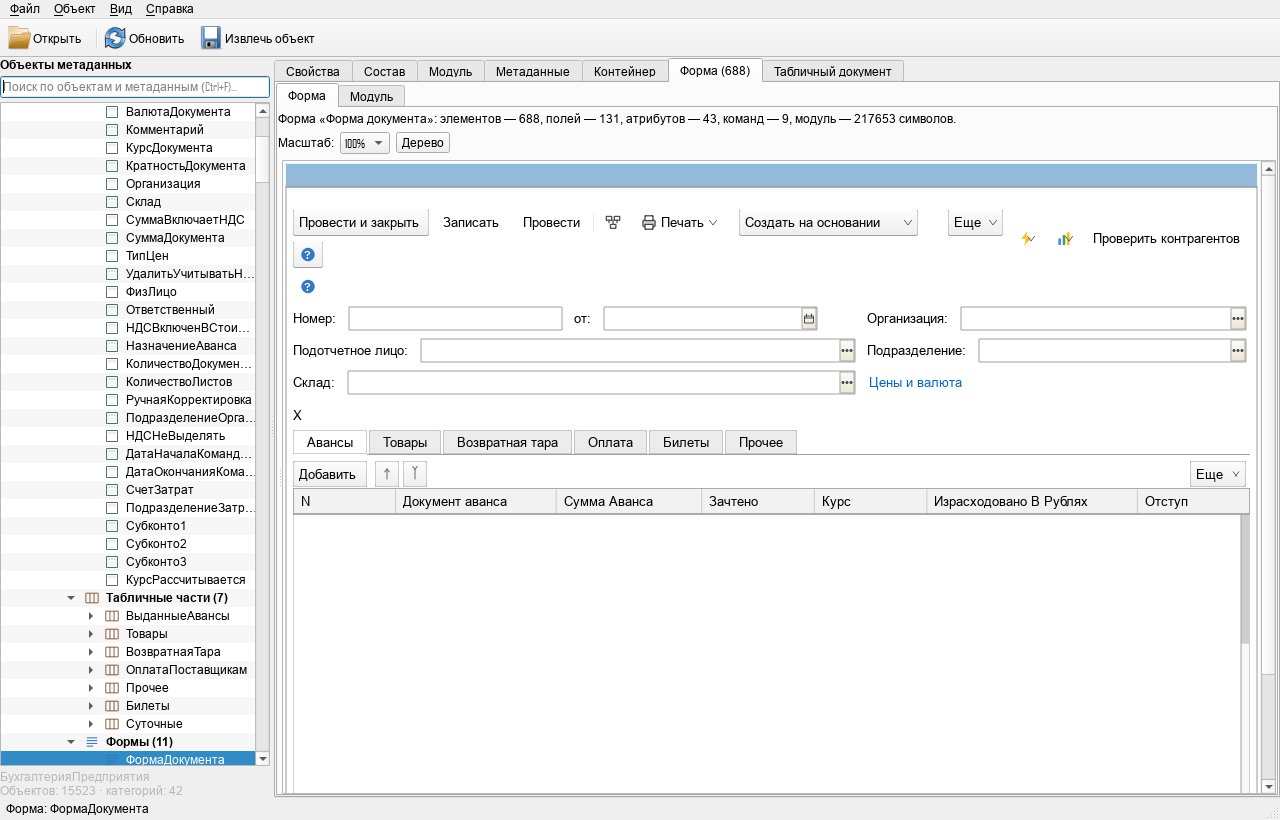
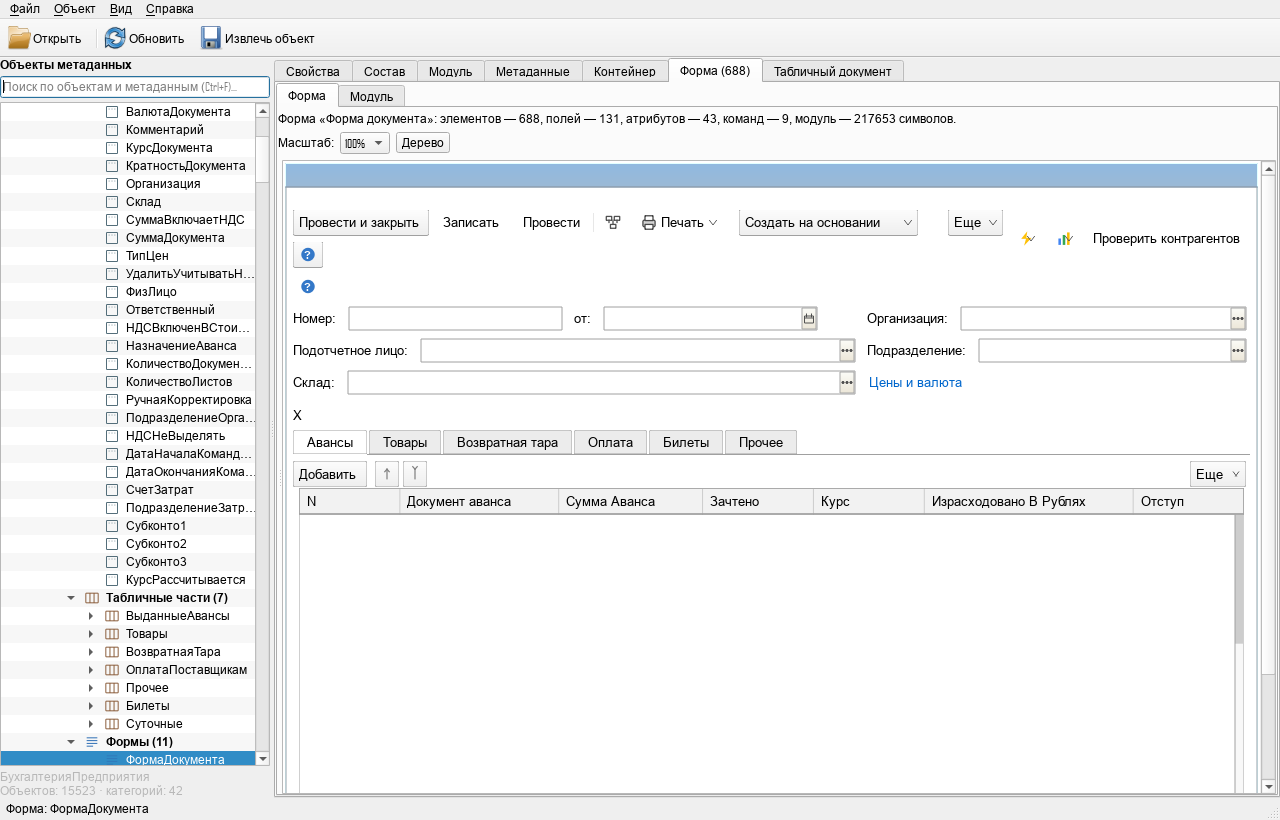
fix(forms): отступ таблицы и ширина «Создать»

diff --git a/src/gui/FormView.cpp b/src/gui/FormView.cpp
@@ -327,7 +327,7 @@ public:
             }
             if (table) {
                 const double chipsTop = table->rect.top();
-                const double chipsLeft = table->rect.left();
+                const double chipsLeft = std::max(0.0, table->rect.left() - 6.0);
                 const double chipHeight = 26.0;
                 const double chipGap = 4.0;
                 for (PreviewControl &control : *controls) {
@@ -435,7 +435,7 @@ private:
             if (icon != ButtonIcon::None)
                 width += 22.0;
             if (item.name == QStringLiteral("Создать"))
-                width += 15.0;
+                width += 35.0;
             return std::min(250.0, width);
         }
         case Type::Search:
@@ -460,7 +460,7 @@ private:
                 const QString title = item.synonym.isEmpty()
                     ? humanizeCommand(item.name) : item.synonym;
                 if (item.name == QStringLiteral("Создать2"))
-                    return 90.0;
+                    return 100.0;
                 if (item.name == QStringLiteral("Еще"))
                     return 55.0;
                 return std::max(64.0,
@@ -1284,7 +1284,8 @@ private:
             tableTop += 30.0;
             tableHeight = std::max(80.0, tableHeight - 30.0);
         }
-        control.rect = QRectF(rect.left(), tableTop, rect.width(),
+        control.rect = QRectF(rect.left() + 6.0, tableTop,
+                              std::max(1.0, rect.width() - 12.0),
                               std::min(std::max(0.0, rect.height() - (tableTop - rect.top())),
                                        tableHeight));
         QVector<int> widthUnits;

diff --git a/CHANGELOG.md b/CHANGELOG.md
@@ -110,6 +110,8 @@
 - Кнопки командной панели и таблица используют цвета эталона: светлые
   кнопки без жёлтой заливки, тёмная внешняя рамка таблицы, светлые линии
   сетки и шапка #F2F2F2.
+- Таблица получила отступ 6 px от края формы, как на скриншоте; кнопки
+  «Создать» расширены под размер эталона.
 - В формах элементов справочников добавлены стандартные команды
   «Записать и закрыть» и «Записать»; командная панель таких форм
   определяется и без отдельной группы кнопок.
